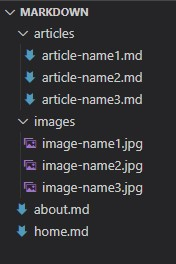
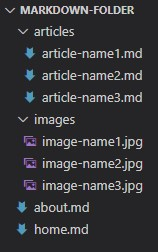
- Added "directory" and "multiple" attributes to test   mobile folder selection.   - The "webkitdirectory' attribute does not seem to      work on mobile devices. Testing different attributes      to find a solution. - Changed "SSG-Folder-Structure.jpg" to a picture that    conveys that the root dir

Changed region(s): [[0.0, 0.0, 1.0, 0.9444]]

diff --git a/public/index.html b/public/index.html
@@ -22,7 +22,10 @@
     <p>Bring your site to life with just a folder!</p>
     <p>
       Simply ensure your folder adheres to the
-      <span class="reveal-folder-structure" style="color: teal; cursor: pointer" title="More information in the documentation"
+      <span
+        class="reveal-folder-structure"
+        style="color: teal; cursor: pointer"
+        title="More information in the documentation"
         >folder structure specifications</span
       >, select it/drag and drop it and watch your site come to life.
     </p>
@@ -42,6 +45,8 @@
         id="file-input"
         name="file-input"
         accept=".md, image/*"
+        directory
+        multiple
         webkitdirectory
       />
     </div>
